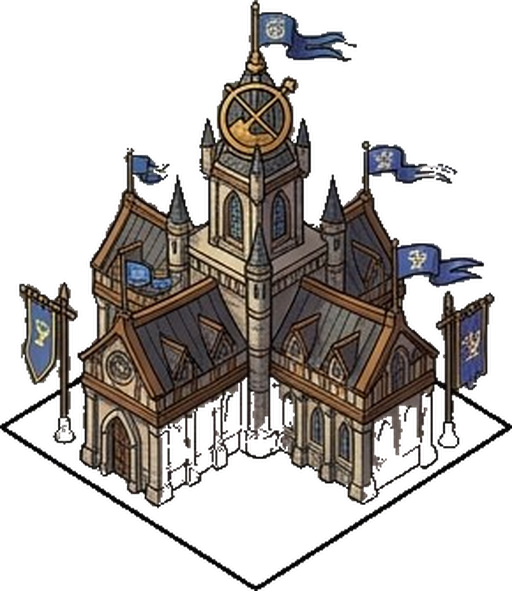
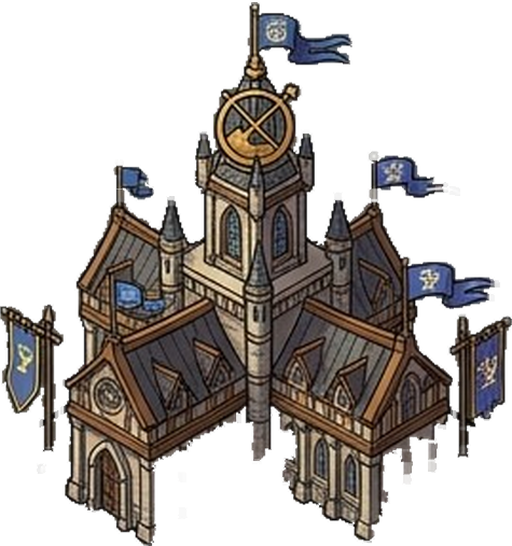
Construções assentadas no chão
- Arte fornecida é encaixada pelo centro do chão da imagem (medido pela borda de baixo do bloco), não pela base da imagem: acaba o efeito de construção flutuando ou invadindo a vizinha
- Andaimes seguem a mesma regra
- Taverna, capela e biblioteca sem a linha preta solta em volta

Claude-Session: https://claude.ai/code/session_013E7jASVZi5swBVS8hakvtW

diff --git a/src/ui/cityView.ts b/src/ui/cityView.ts
@@ -3,7 +3,7 @@ import { BALANCE } from '../sim/data/balance';
 import { BUILDINGS, type BuildingId } from '../sim/data/buildings';
 import { FRAME, buildingAt, canPlace, districtsUnlocked, quadrantOf, usableBounds, wallMaxHp } from '../sim/settlement';
 import type { GameState, PlacedBuilding, Settlement } from '../sim/types';
-import { art } from '../art/loader';
+import { art, groundCenterY, isProvided } from '../art/loader';
 import { buildingSpriteSize, stageForLevel } from '../art/registry';
 
 const TW = 64;
@@ -337,32 +337,48 @@ export class CityView {
     const base = this.toScreen(x + n, y + n);
     const { w } = buildingSpriteSize(type);
     const sc = (TW * this.zoom) / 128;
-    const img = art(`construcao-${type}-${stageForLevel(Math.max(1, level))}`);
-    // A largura segue o tamanho da construção; a altura segue a proporção da imagem.
+    const key = `construcao-${type}-${stageForLevel(Math.max(1, level))}`;
+    if (isProvided(key)) {
+      this.drawOnFootprint(c, key, x, y, n);
+      return;
+    }
+    const img = art(key);
     const dw = w * sc;
     const dh = ((img.height as number) * dw) / (img.width as number);
     c.drawImage(img, base.x - dw / 2, base.y - dh + 2 * sc, dw, dh);
   }
 
+  /** Arte fornecida: o centro do chão da imagem fica no centro das casas ocupadas. */
+  private drawOnFootprint(c: CanvasRenderingContext2D, key: string, x: number, y: number, n: number): void {
+    const img = art(key);
+    const iw = img.width as number;
+    const ih = img.height as number;
+    const k = (n * TW * this.zoom) / iw;
+    const center = this.toScreen(x + n / 2, y + n / 2);
+    c.drawImage(img, center.x - (iw / 2) * k, center.y - groundCenterY(img) * k, iw * k, ih * k);
+  }
+
+  private drawScaffold(c: CanvasRenderingContext2D, x: number, y: number, n: number): void {
+    const key = `andaime-${n}`;
+    if (isProvided(key)) return this.drawOnFootprint(c, key, x, y, n);
+    const sc = (TW * this.zoom) / 128;
+    const base = this.toScreen(x + n, y + n);
+    const img = art(key);
+    const w = n * 128 * sc;
+    const h = ((img.height as number) * w) / (img.width as number);
+    c.drawImage(img, base.x - w / 2, base.y - h + 2 * sc, w, h);
+  }
+
   private drawBuilding(c: CanvasRenderingContext2D, b: PlacedBuilding, now: number): void {
     const n = BUILDINGS[b.type].size;
-    const sc = (TW * this.zoom) / 128;
     if (b.level === 0 && b.build) {
-      const base = this.toScreen(b.x + n, b.y + n);
-      const img = art(`andaime-${n}`);
-      const w = n * 128 * sc;
-      const h = ((img.height as number) * w) / (img.width as number);
-      c.drawImage(img, base.x - w / 2, base.y - h + 2 * sc, w, h);
+      this.drawScaffold(c, b.x, b.y, n);
     } else {
       this.drawSprite(c, b.type, b.level, b.x, b.y);
       if (b.build) {
         // Melhoria em andamento: andaime por cima, meio transparente.
-        const base = this.toScreen(b.x + n, b.y + n);
-        const img = art(`andaime-${n}`);
-        const aw = n * 128 * sc;
-        const ah = ((img.height as number) * aw) / (img.width as number);
         c.globalAlpha = 0.55;
-        c.drawImage(img, base.x - aw / 2, base.y - ah + 2 * sc, aw, ah);
+        this.drawScaffold(c, b.x, b.y, n);
         c.globalAlpha = 1;
       }
     }

diff --git a/src/art/loader.ts b/src/art/loader.ts
@@ -108,3 +108,51 @@ export function artSize(key: string): { w: number; h: number } {
   const s = ART_BY_KEY.get(key);
   return s ? { w: s.w, h: s.h } : { w: 1, h: 1 };
 }
+
+const anchorCache = new WeakMap<object, number>();
+
+/**
+ * Altura (em px da imagem) do centro do chão de uma arte isométrica fornecida.
+ * Mede a borda de baixo do bloco: a ponta da frente e a inclinação dos lados.
+ */
+export function groundCenterY(img: Img): number {
+  const hit = anchorCache.get(img);
+  if (hit !== undefined) return hit;
+  const W = img.width as number;
+  const H = img.height as number;
+  let result = H - W / 4;
+  try {
+    const cv = document.createElement('canvas');
+    cv.width = W;
+    cv.height = H;
+    const cx = cv.getContext('2d', { willReadFrequently: true })!;
+    cx.drawImage(img, 0, 0);
+    const data = cx.getImageData(0, 0, W, H).data;
+    const low = new Float64Array(W).fill(-1);
+    for (let x = 0; x < W; x++) {
+      for (let y = H - 1; y >= 0; y--) {
+        if (data[(y * W + x) * 4 + 3] > 100) {
+          low[x] = y;
+          break;
+        }
+      }
+    }
+    let xb = 0;
+    for (let x = 0; x < W; x++) if (low[x] > low[xb]) xb = x;
+    const tip = low[xb];
+    // Inclinação média da borda de baixo, dos dois lados da ponta.
+    const slopes: number[] = [];
+    for (const dir of [-1, 1]) {
+      const a = Math.round(xb + dir * W * 0.08);
+      const b = Math.round(xb + dir * W * 0.32);
+      if (a >= 0 && a < W && b >= 0 && b < W && low[a] >= 0 && low[b] >= 0) slopes.push((low[a] - low[b]) / Math.abs(b - a));
+    }
+    const s = slopes.length ? slopes.reduce((p, q) => p + q, 0) / slopes.length : 0.5;
+    const slope = Math.min(0.8, Math.max(0.3, s));
+    result = tip - slope * (W / 2) - W * 0.035;
+  } catch {
+    /* imagem ainda não pronta: usa a estimativa */
+  }
+  anchorCache.set(img, result);
+  return result;
+}
